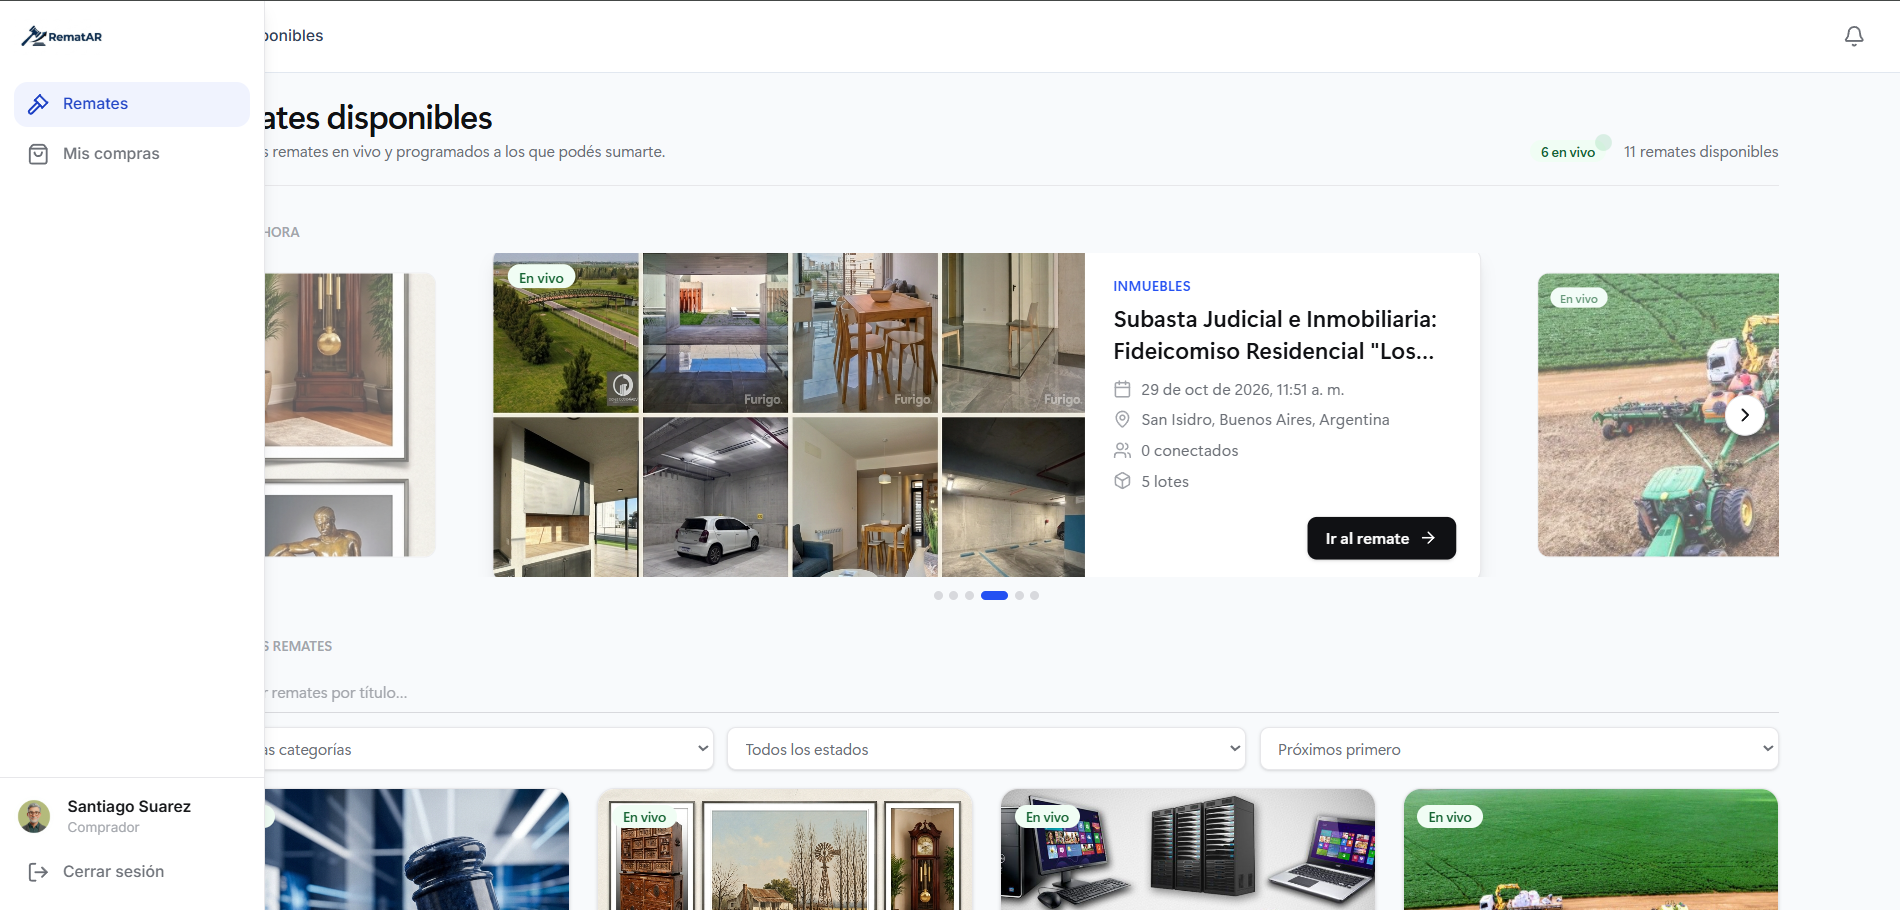
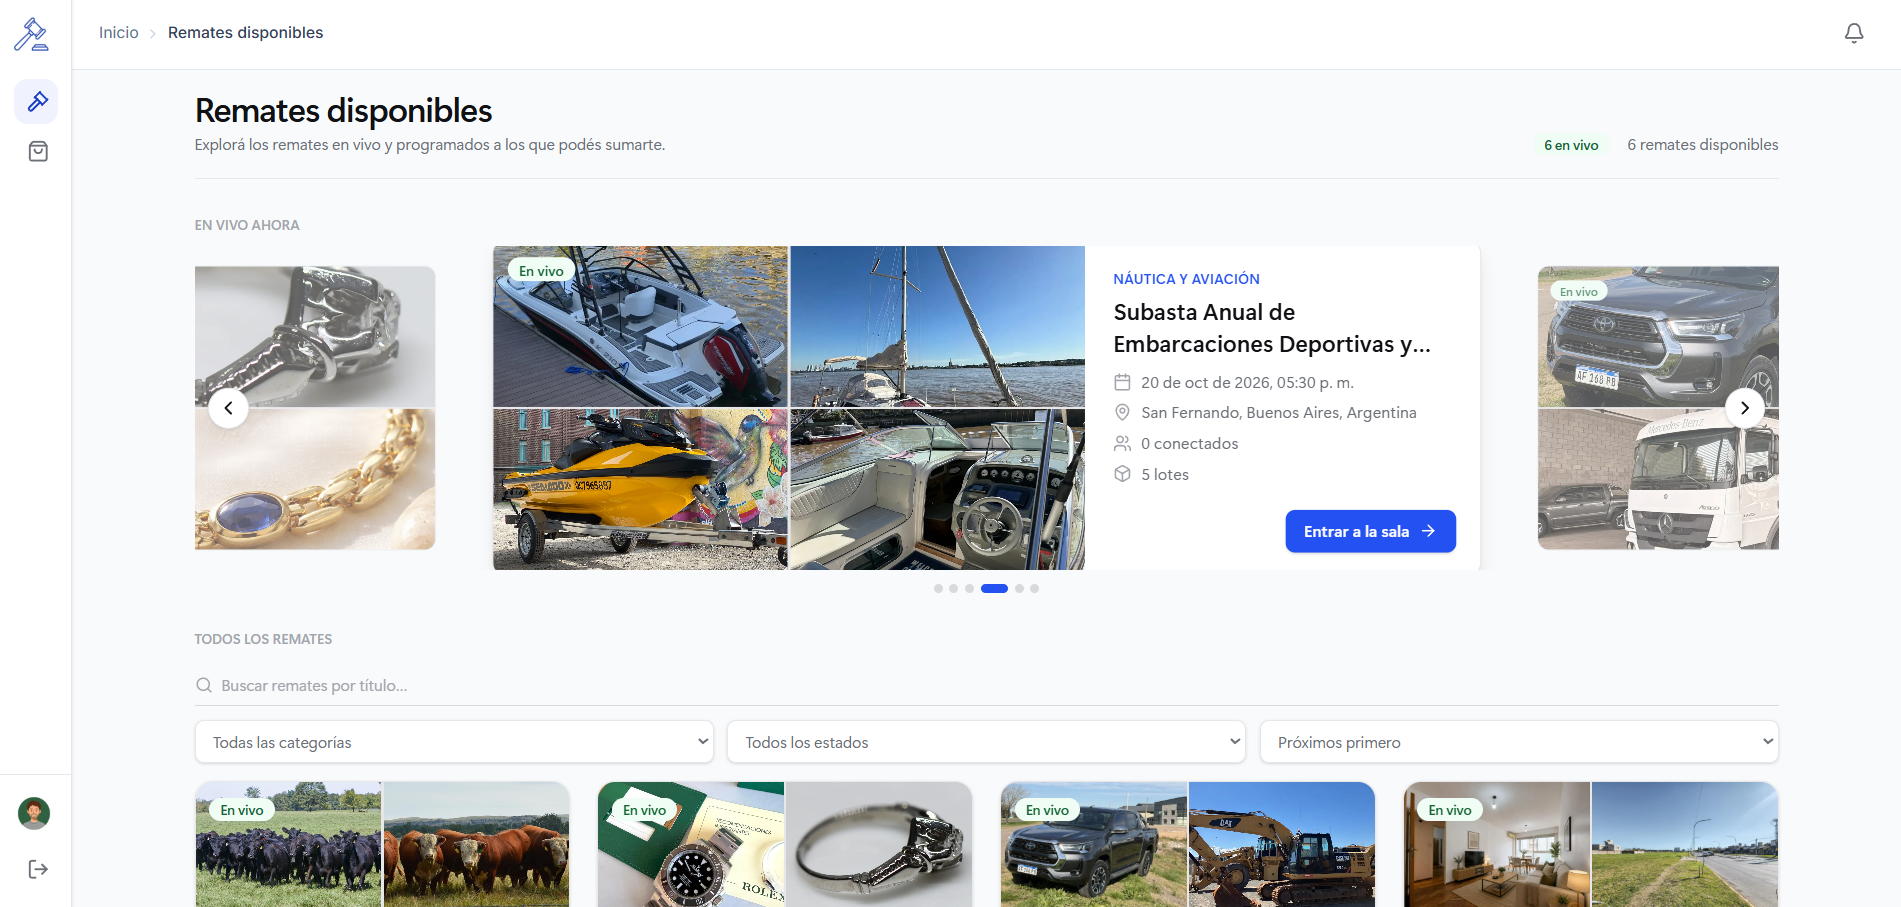
Cambio imagenes dentro del carrusel de la landing

diff --git a/frontend/src/features/postauction/components/ProgressStepper.tsx b/frontend/src/features/postauction/components/ProgressStepper.tsx
@@ -10,23 +10,28 @@ export interface ProgressStepperProps {
 /**
  * Indicador visual de progreso sobre los 8 estados del flujo post-remate (pedido
  * explícito del enunciado, "indicadores visuales de progreso"). Pura lectura de
- * `STATUS_ORDER` -- no valida transiciones (eso ya lo hace el backend). `flex-wrap`
- * para que se acomode en pantallas angostas en vez de forzar scroll horizontal.
+ * `STATUS_ORDER` -- no valida transiciones (eso ya lo hace el backend). Una sola fila
+ * siempre (`flex-nowrap`): en pantallas angostas los 8 pasos no entran, así que en vez de
+ * `flex-wrap` (que antes rompía la alineación de los conectores al partir la fila) se
+ * scrollea horizontalmente -- mismo patrón que `LoteResultCarousel`.
  */
 export function ProgressStepper({ status }: ProgressStepperProps) {
   const currentIndex = STATUS_ORDER.indexOf(status);
 
   return (
-    <ol className="flex flex-wrap items-start gap-y-4" aria-label="Progreso del proceso post-remate">
+    <ol
+      className="flex flex-nowrap items-start overflow-x-auto pb-1 pl-1 pr-3 pt-1 [-ms-overflow-style:none] [scrollbar-width:none] [&::-webkit-scrollbar]:hidden"
+      aria-label="Progreso del proceso post-remate"
+    >
       {STATUS_ORDER.map((step, index) => {
         const isDone = index < currentIndex;
         const isCurrent = index === currentIndex;
         return (
-          <li key={step} className="flex items-start">
-            <div className="flex flex-col items-center gap-1.5">
+          <li key={step} className="flex shrink-0 items-start">
+            <div className="flex w-16 flex-col items-center gap-1.5 sm:w-20">
               <span
                 className={clsx(
-                  'flex h-8 w-8 items-center justify-center rounded-full text-xs font-semibold transition-colors duration-200',
+                  'flex h-8 w-8 shrink-0 items-center justify-center rounded-full text-xs font-semibold transition-colors duration-200',
                   isDone && 'bg-success-50 text-success-600 ring-1 ring-inset ring-success-200',
                   isCurrent && 'bg-brand-600 text-white shadow-sm ring-4 ring-brand-100',
                   !isDone && !isCurrent && 'bg-slate-100 text-slate-400',
@@ -37,7 +42,7 @@ export function ProgressStepper({ status }: ProgressStepperProps) {
               </span>
               <span
                 className={clsx(
-                  'max-w-[5.5rem] text-center text-[11px] leading-tight',
+                  'text-center text-[11px] leading-tight',
                   isCurrent ? 'font-semibold text-slate-900' : 'text-slate-500',
                 )}
               >
@@ -47,7 +52,7 @@ export function ProgressStepper({ status }: ProgressStepperProps) {
             {index < STATUS_ORDER.length - 1 && (
               <span
                 className={clsx(
-                  'mx-1 mt-4 h-0.5 w-6 shrink-0 rounded-full transition-colors duration-200 sm:w-10',
+                  'mx-1 mt-4 h-0.5 w-4 shrink-0 rounded-full transition-colors duration-200 sm:w-8',
                   isDone ? 'bg-success-400' : 'bg-slate-200',
                 )}
                 aria-hidden="true"

diff --git a/frontend/src/features/landing/data.ts b/frontend/src/features/landing/data.ts
@@ -141,7 +141,7 @@ export const SYSTEM_SCREENS: SystemScreen[] = [
   },
   {
     key: 'panel-rematador',
-    title: 'Panel del martillero',
+    title: 'Panel de la empresa',
     description: 'Mis remates: estado, creación, métricas globales y accesos rápidos a cada evento.',
     image: '/screenshots/panel-rematador.png',
   },
@@ -152,22 +152,16 @@ export const SYSTEM_SCREENS: SystemScreen[] = [
     image: '/screenshots/consola-rematador.png',
   },
   {
-    key: 'historial-remate',
-    title: 'Historial y resultados',
-    description: 'Resumen ejecutivo, valor adjudicado, métricas clave y resultado lote por lote al finalizar el remate.',
-    image: '/screenshots/historial-remate.png',
-  },
-  {
     key: 'ventas-adjudicadas',
     title: 'Ventas adjudicadas',
-    description: 'Seguimiento y gestión post-remate del martillero: contacto, cobro y entrega de cada lote vendido.',
+    description: 'Seguimiento y gestión post-remate de la empresa: contacto, cobro y entrega de cada lote vendido.',
     image: '/screenshots/ventas-adjudicadas.png',
   },
   {
-    key: 'seguimiento',
-    title: 'Seguimiento de mi compra',
-    description: 'El comprador sigue el progreso post-remate paso a paso, desde la adjudicación y pago hasta la entrega.',
-    image: '/screenshots/seguimiento-compra.png',
+    key: 'gestion-venta',
+    title: 'Gestión de la venta',
+    description: 'Vista de la empresa para gestionar la venta: cambiar el estado, sumar observaciones y subir documentación.',
+    image: '/screenshots/gestion-venta.png',
   },
 ];
 
